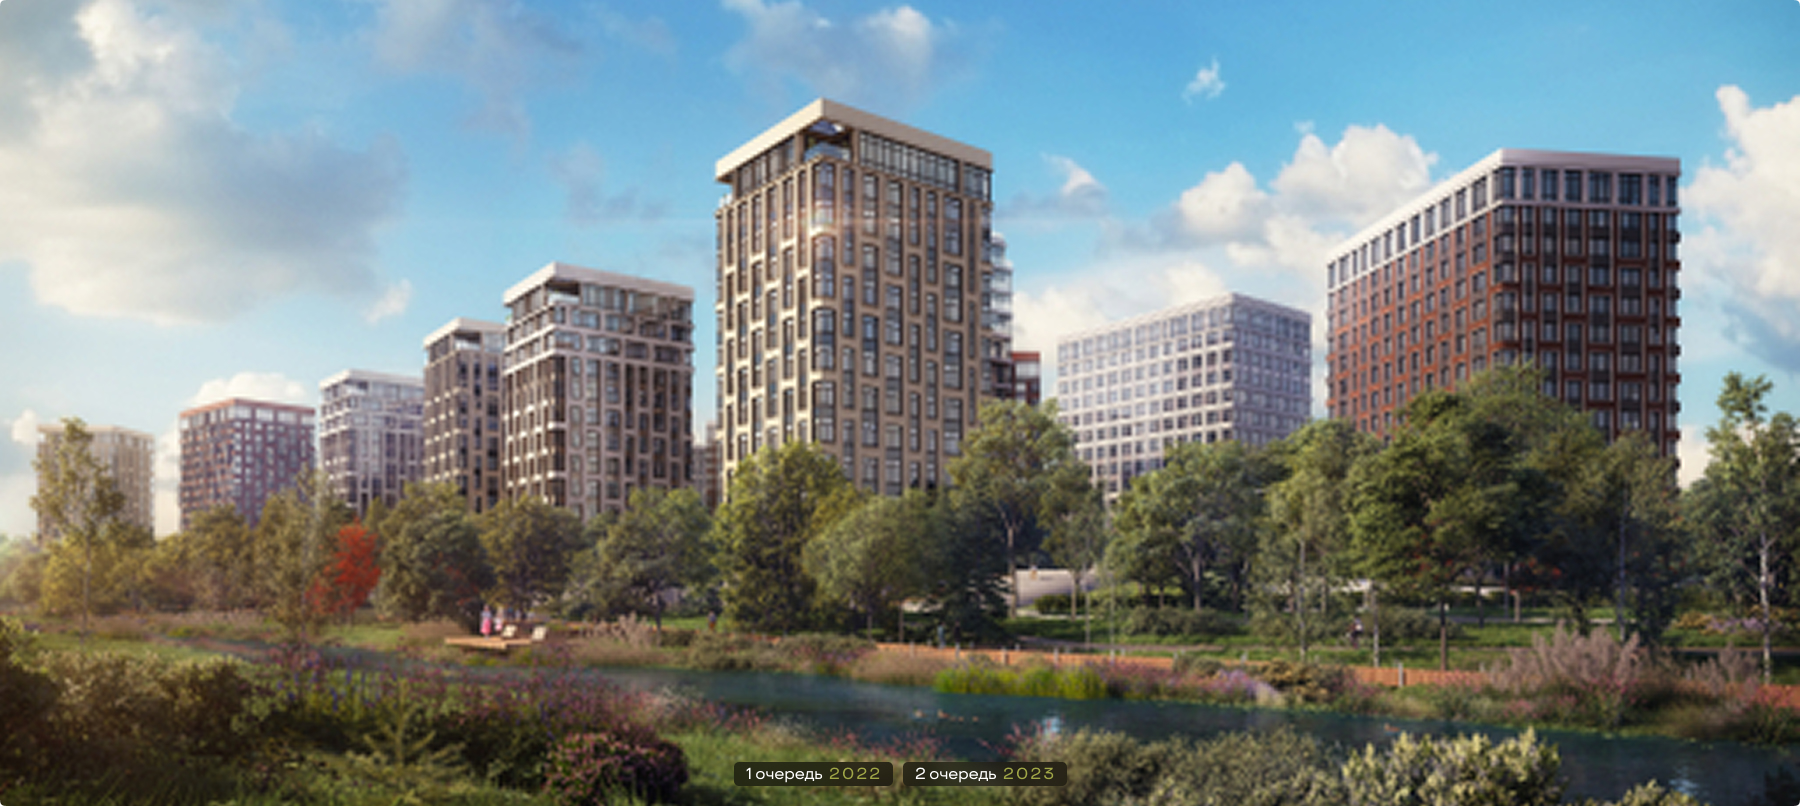
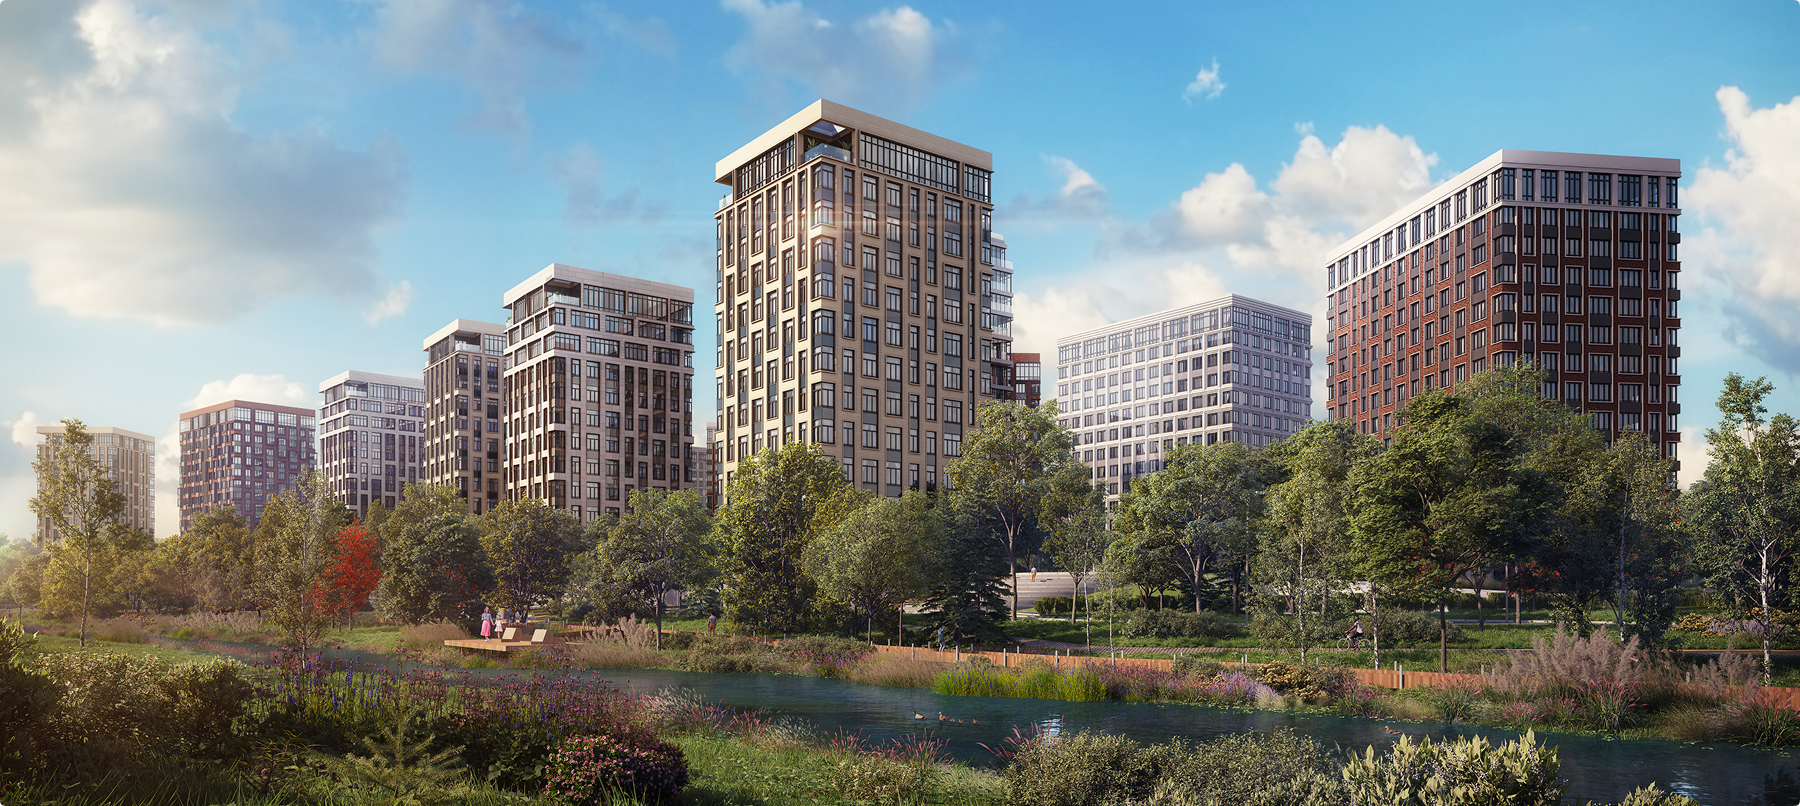
project Residential-complex

Changed region(s): [[0.0, 0.1241, 1.0, 1.0]]

diff --git a/src/pages/Demonstration-area.jsx b/src/pages/Demonstration-area.jsx
@@ -1,0 +1,26 @@
+import '../css/Demonstration-area.css'
+import map from '../assets/map.png'
+import rayon from '../assets/img (1).jpg'
+import panorama from '../assets/icon/panorama.png'
+
+function DemonstrationArea() {
+    return (
+        <>
+            <section className="Demonstration-area">
+                <div className="demonstration-area__map-container">
+                    <p className="demonstration-area-map-subtitle">Престижное расположение</p>
+                    <h2 className="demonstration-area__map-title">Один из самых зелёных<br />районов столицы - Раменки</h2>
+                    <img src={map} alt="map" />
+                    <p className="demonstration-area__information">ЖК West Garden окружен Матвеевским лесом, набережной реки<br /> Раменки и природным заказником «Долина реки Сетунь»</p>
+                    <div className="demonstration-area__panoram"><img src={panorama} alt="panorama-icon" /> Панорама района 360°</div>
+                </div>
+                <div className="demonstration-area__container">
+                    <h2 className="demonstration-area__container-title">Наслайждайтесь видами<br />из окон своей квартиры</h2>
+                    <img src={rayon} alt="rayon-img" />
+                </div>
+            </section>
+        </>
+    )
+}
+
+export { DemonstrationArea }

diff --git a/src/pages/Start.jsx b/src/pages/Start.jsx
@@ -1,7 +1,7 @@
 import '../css/Start.css'
 import img from '../assets/img.jpg'
 import icon from '../assets/icon/award.svg'
-
+import Features from '../assets/Features.png'
 function Start() {
     return (
         <section className="start">
@@ -53,9 +53,17 @@ function Start() {
 
             <div className="start__images">
                 <div className="start__main-image">
-                    <img src={img} alt="img" className="start__main-img"/>
-                <img src={icon} alt="" className="start__main-icon"/>
-
+                    <img src={img} alt="img" className="start__main-img" />
+                    <img src={icon} alt="" className="start__main-icon" />
+                    <div className="start__collages-img">
+                        <div className="start__queue-container">
+                            <div className="start__queue">1 очередь <span className="start__text-collor-green">2022</span></div>
+                            <div className="start__queue">2 очередь <span className="start__text-collor-green">2023</span></div>
+                        </div>
+                    </div>
+                </div>
+                <div className="start__calages">
+                    <img src={Features} alt="" srcset="" />
                 </div>
             </div>
 

diff --git a/src/css/Start.css b/src/css/Start.css
@@ -7,10 +7,6 @@
     --color-green: #A0A747;
 }
 
-.start {
-    padding: 20px 40px;
-}
-
 .header__container {
     display: flex;
     justify-content: space-between;
@@ -64,29 +60,51 @@
 .start__title {
     font-size: 5em;
     text-align: center;
-    font-family: 'Segoe UI', Tahoma, Geneva, Verdana, sans-serif;
 }
 
 .start__subtitle {
     font-size: 2em;
-    font-family: 'Segoe UI', Tahoma, Geneva, Verdana, sans-serif;
     text-decoration: underline;
     text-decoration-color: var(--color-green);
     text-underline-offset: 4px;
     cursor: pointer;
 }
 
-.start__main-image{
-position: relative;
+.start__main-image {
+    position: relative;
 
 }
 
-.start__main-icon{
-position: absolute;
-right: 20px;
-top: -25px;
+.start__main-icon {
+    position: absolute;
+    right: 20px;
+    top: -25px;
 }
 
-.start__main-img{
-width: 100%;
+.start__main-img {
+    width: 100%;
+}
+
+.start__queue-container {
+    display: flex;
+    position: absolute;
+    bottom: 30px;
+    left: 40%;
+    gap: 15px;
+}
+
+.start__queue {
+    background-color: hsl(0, 0%, 0%, 70%);
+    font-size: 2em;
+    color: white;
+    padding: 5px 10px 10px 10px;
+    border-radius: 6px;
+}
+
+.start__text-collor-green {
+    color: var(--color-green);
+}
+
+.start__calages {
+    margin: 60px 300px 150px 300px;
 }

diff --git a/src/css/Demonstration-area.css b/src/css/Demonstration-area.css
@@ -1,0 +1,46 @@
+.Demonstration-area{
+
+}
+
+.demonstration-area__map-container{
+display: flex;
+flex-direction: column;
+align-items: center;
+text-align: center;
+}
+
+.demonstration-area-map-subtitle{
+font-size: 1.9em;
+}
+
+.demonstration-area__map-title{
+font-size: 4em;
+margin-bottom: 40px;
+}
+
+.demonstration-area__information{
+    font-size: 2em;
+}
+
+.demonstration-area__panoram{
+    font-size: 2em;
+    display: flex;
+    justify-content: center;
+    align-items: center;
+    gap: 7px;
+    border: 1px solid hsl(349, 36%, 35%, 30%);
+    padding: 5px 15px;
+    border-radius: 10px;
+    color: #773844;
+    margin: 20px 0px 100px 0px;
+}
+
+.demonstration-area__container{
+
+}
+
+.demonstration-area__container-title{
+    text-align: center;
+    font-size: 3.5em;
+    margin-bottom: 20px;
+}

diff --git a/src/App.jsx b/src/App.jsx
@@ -1,12 +1,13 @@
 import './css/App.css'
 import { Start } from './pages/Start'
-
+import { DemonstrationArea } from './pages/Demonstration-area'
 
 function App() {
 
   return (
     <>
       <Start />
+      <DemonstrationArea />
     </>
   )
 }

diff --git a/src/css/index.css b/src/css/index.css
@@ -1,3 +1,7 @@
+* {
+  font-family: 'Segoe UI', Tahoma, Geneva, Verdana, sans-serif;
+}
+
 html {
   font-size: 62.5%;
 }
@@ -5,4 +9,5 @@ html {
 body {
   font-size: 1rem;
   background-color: rgb(247, 246, 246);
+  padding: 20px 40px;
 }
